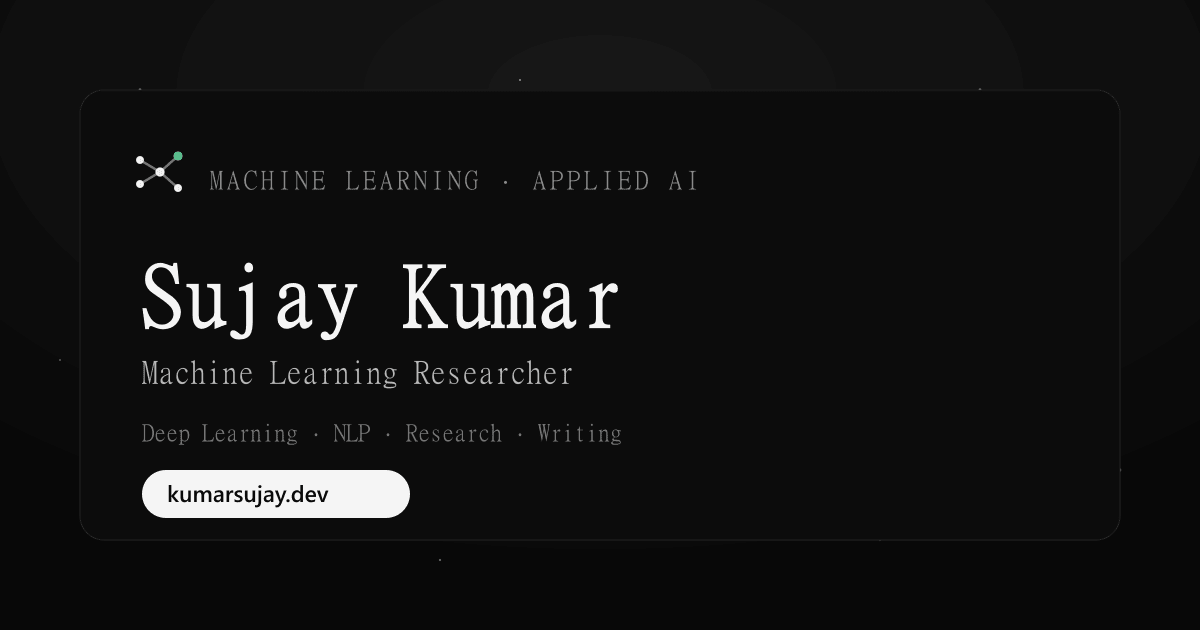
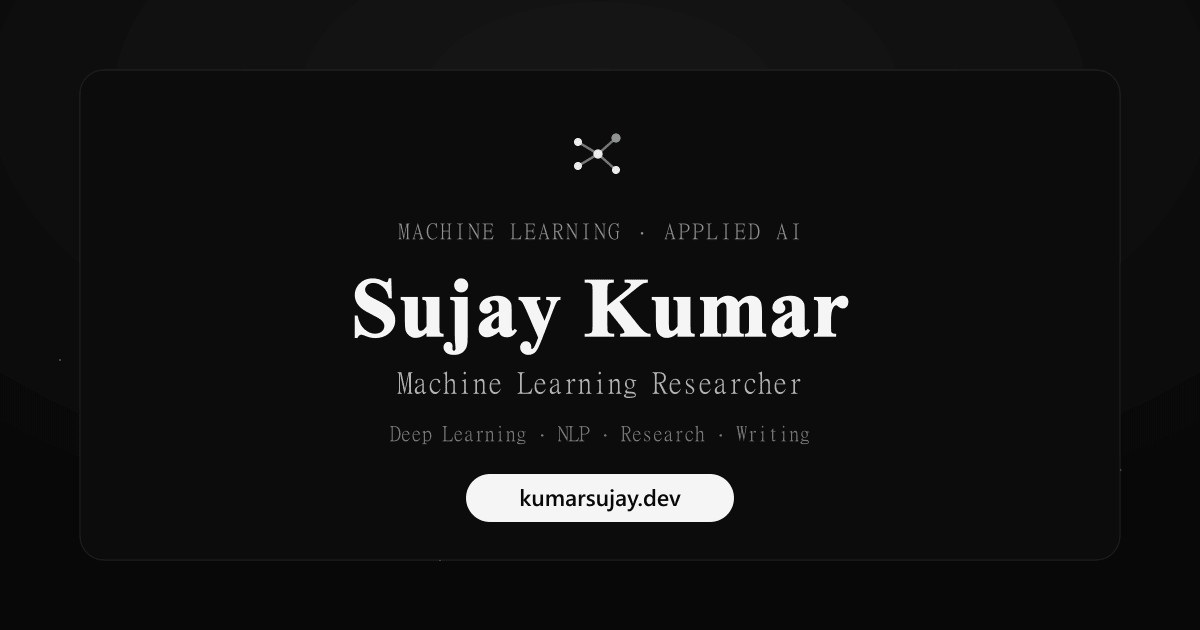
feat(seo): enhance og-image with mime types, dimensions, and centered layout
- Add og:image:type meta tag with dynamic MIME type detection from file extension
- Add og:image:width and og:image:height meta tags (1200x630) for default og-image.png
- Center og-image.svg content horizontally to prevent text loss in square thumbnail crops
- Adjust og-image.svg layout: increase frame height, reposition brand mark and all text elements to x=600
- Refine og-image.svg typography: reduce font sizes, adjust letter-spacing and stroke widths
- Extract imageMimeType utility function to api/_lib/seo.js for reuse
- Add IMAGE_MIME type mapping in both seo.js and Seo.tsx components
- Update tsconfig files with build cache metadata
- Include detailed SVG comments explaining center-crop behavior in link previews

diff --git a/api/_lib/seo.js b/api/_lib/seo.js
@@ -61,6 +61,27 @@ export const absoluteUrl = (path, env = process.env) => {
 
 const BASE_TITLE = "Sujay Kumar";
 
+/** Our generated preview card, whose exact dimensions we know. */
+const DEFAULT_OG_IMAGE = "/og-image.png";
+const DEFAULT_OG_WIDTH = "1200";
+const DEFAULT_OG_HEIGHT = "630";
+
+const IMAGE_MIME = {
+  png: "image/png",
+  jpg: "image/jpeg",
+  jpeg: "image/jpeg",
+  webp: "image/webp",
+  gif: "image/gif",
+  avif: "image/avif",
+};
+
+/** Infer the image MIME type from a URL's extension, or null if unknown. */
+const imageMimeType = (url) => {
+  const match = /\.([a-z0-9]+)(?:[?#]|$)/i.exec(String(url ?? ""));
+  if (!match) return null;
+  return IMAGE_MIME[match[1].toLowerCase()] ?? null;
+};
+
 /**
  * Build the <head> tag string for a blog post (or the blog index) and the
  * JSON-LD block. Returned as a single HTML string ready to inject.
@@ -81,9 +102,16 @@ export const buildHeadTags = (meta, env = process.env) => {
     .replace(/\s+/g, " ")
     .trim();
   const canonical = meta.canonicalPath ? absoluteUrl(meta.canonicalPath, env) : origin || "";
-  const rawImage = meta.image || "/og-image.png";
+  const rawImage = meta.image || DEFAULT_OG_IMAGE;
   const image = /^https?:\/\//i.test(rawImage) ? rawImage : absoluteUrl(rawImage, env);
   const ogType = meta.type === "article" ? "article" : "website";
+
+  // Declaring the type and pixel size lets crawlers build a large preview card
+  // without fetching the file first. Only claim dimensions for our own generated
+  // card: post images come from Warehouse at arbitrary sizes, and advertising
+  // the wrong dimensions makes some crawlers skip the large card entirely.
+  const imageMime = imageMimeType(rawImage);
+  const imageIsDefault = /(^|\/)og-image\.png$/i.test(rawImage);
 
   const tags = [
     `<title>${escapeHtml(fullTitle)}</title>`,
@@ -98,6 +126,9 @@ export const buildHeadTags = (meta, env = process.env) => {
     `<meta property="og:type" content="${ogType}" />`,
     `<meta property="og:image" content="${escapeAttr(image)}" />`,
     `<meta property="og:image:secure_url" content="${escapeAttr(image)}" />`,
+    imageMime ? `<meta property="og:image:type" content="${imageMime}" />` : "",
+    imageIsDefault ? `<meta property="og:image:width" content="${DEFAULT_OG_WIDTH}" />` : "",
+    imageIsDefault ? `<meta property="og:image:height" content="${DEFAULT_OG_HEIGHT}" />` : "",
     `<meta property="og:image:alt" content="${escapeAttr(meta.title || BASE_TITLE)}" />`,
     `<meta name="twitter:card" content="summary_large_image" />`,
     `<meta name="twitter:title" content="${escapeAttr(fullTitle)}" />`,

diff --git a/src/components/Seo.tsx b/src/components/Seo.tsx
@@ -6,9 +6,7 @@ type SeoProps = {
   description?: string;
   imagePath?: string;
   noIndex?: boolean;
-  /** OpenGraph type. Defaults to "website"; use "article" for blog posts. */
   type?: "website" | "article";
-  /** Optional JSON-LD structured data object (e.g. BlogPosting). */
   jsonLd?: Record<string, unknown>;
 };
 
@@ -16,6 +14,20 @@ const getSiteUrl = () => {
   const fromEnv = import.meta.env.VITE_SITE_URL as string | undefined;
   if (fromEnv && fromEnv.trim().length > 0) return fromEnv.replace(/\/$/, "");
   return null;
+};
+
+const IMAGE_MIME: Record<string, string> = {
+  png: "image/png",
+  jpg: "image/jpeg",
+  jpeg: "image/jpeg",
+  webp: "image/webp",
+  gif: "image/gif",
+  avif: "image/avif",
+};
+
+const getImageMimeType = (url: string): string | undefined => {
+  const match = /\.([a-z0-9]+)(?:[?#]|$)/i.exec(url);
+  return match ? IMAGE_MIME[match[1].toLowerCase()] : undefined;
 };
 
 const Seo = ({
@@ -41,13 +53,12 @@ const Seo = ({
   const ogUrl = canonicalUrl;
   const imageIsAbsolute = /^https?:\/\//i.test(imagePath);
   const ogImage = imageIsAbsolute ? imagePath : siteUrl ? `${siteUrl}${imagePath}` : imagePath;
-  const ogImageType = imageIsAbsolute
-    ? undefined
-    : imagePath.endsWith(".png")
-      ? "image/png"
-      : imagePath.endsWith(".jpg") || imagePath.endsWith(".jpeg")
-        ? "image/jpeg"
-        : undefined;
+  const ogImageType = getImageMimeType(imagePath);
+
+  // Only declare pixel dimensions for our own generated card, which really is
+  // 1200x630. Post images come from Warehouse at arbitrary sizes, and claiming
+  // the wrong dimensions makes some crawlers skip the large preview card.
+  const imageIsDefault = /(^|\/)og-image\.png$/i.test(imagePath);
 
   return (
     <Helmet>
@@ -71,8 +82,8 @@ const Seo = ({
       <meta property="og:image" content={ogImage} />
       <meta property="og:image:secure_url" content={ogImage} />
       {ogImageType && <meta property="og:image:type" content={ogImageType} />}
-      <meta property="og:image:width" content="1200" />
-      <meta property="og:image:height" content="630" />
+      {imageIsDefault && <meta property="og:image:width" content="1200" />}
+      {imageIsDefault && <meta property="og:image:height" content="630" />}
       <meta property="og:image:alt" content={`${baseTitle} portfolio preview`} />
 
       <meta name="twitter:card" content="summary_large_image" />
